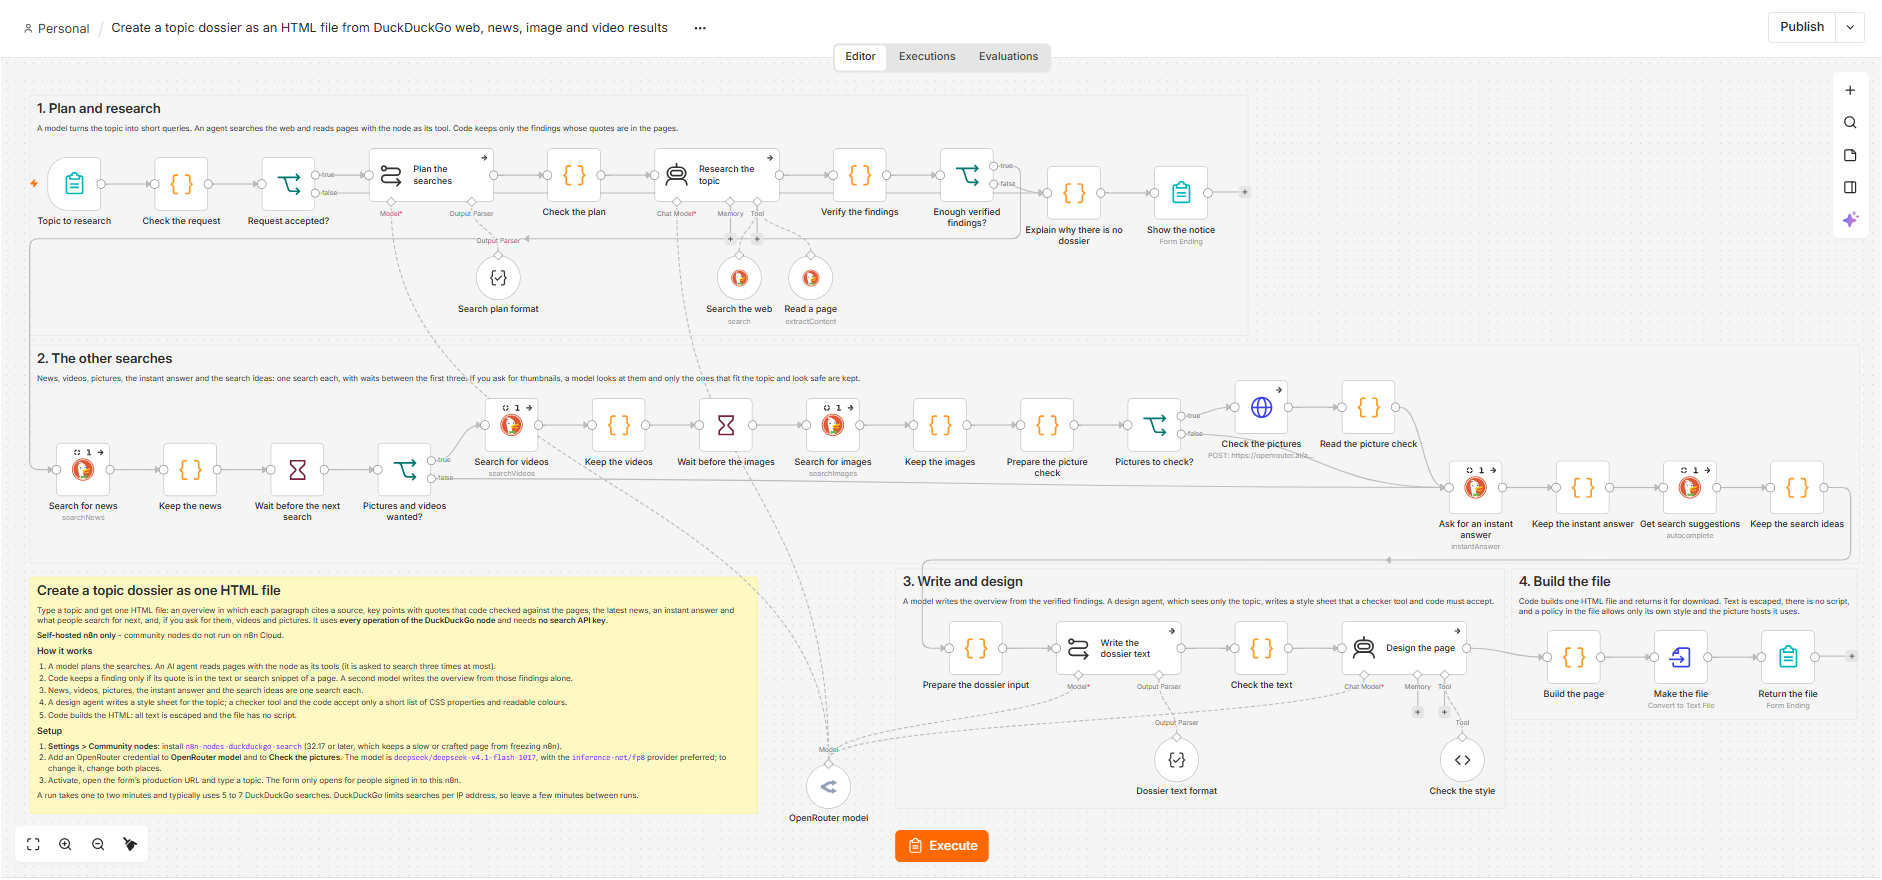
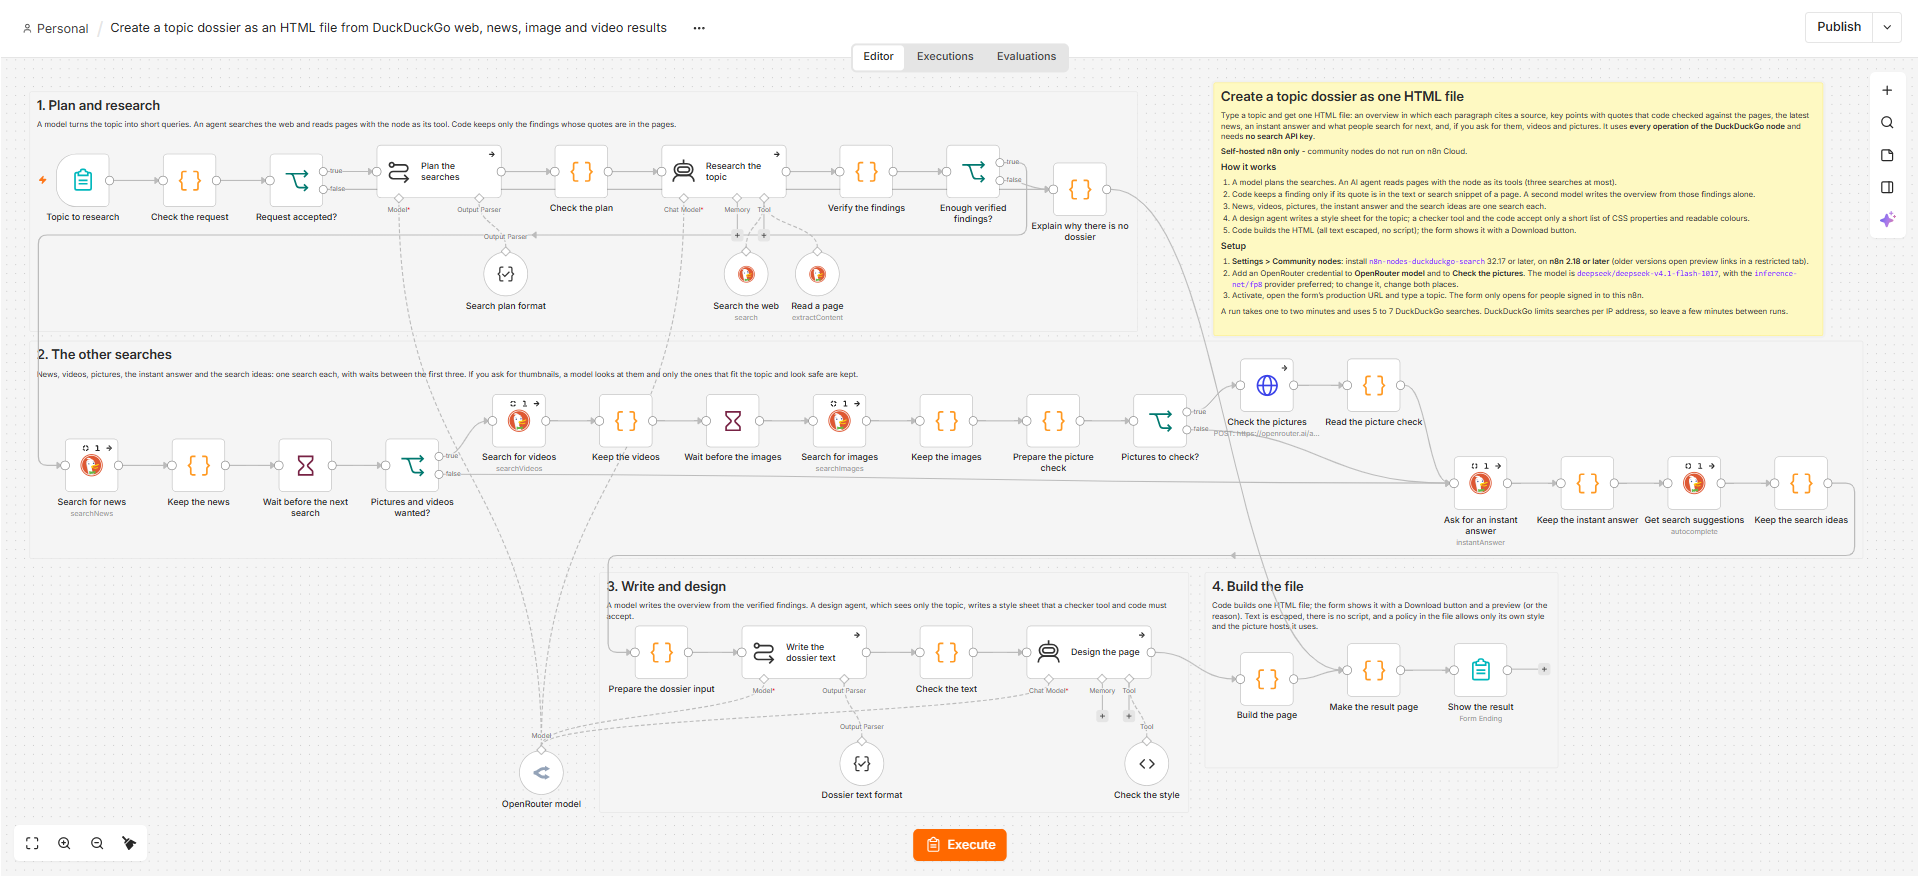
feat(examples): example 9 ends in one output page for the dossier and for the reason (#121)
* feat(examples): example 9 ends in one output page for the dossier and for the reason

The workflow had three Form nodes: the input, an ending for the dossier and
another for the reason when there is none. Both outcomes now go through one Code
node ("Make the result page") into one Form Ending ("Show the result"), so a
person sees two pages, the input and the result, whatever happens. The reason is
marked `notice` by the node that writes it, and the page node routes on that
mark and not on a missing file name.

* docs(examples): example 9 gets the layout and the screenshot of its new ending

Only positions and sizes of the sticky notes change in the JSON; the screenshot
shows the nodes of the single output page.

---------

diff --git a/nodes/DuckDuckGo/__tests__/exampleDossier.test.ts b/nodes/DuckDuckGo/__tests__/exampleDossier.test.ts
@@ -3,7 +3,7 @@
  * Its logic is in Code nodes whose source lives in the JSON file, and it turns text from web pages and from models into a file that a
  * person opens in a browser, so what the nodes do is pinned here by running their own code on small cases: the request check, the plan
  * check, the verification of quotes, the five "keep" nodes, the picture check, the assembly of the input, the text check, the style
- * checker, the builder of the page and the page that shows it with a download link and a preview.
+ * checker, the builder of the page and the page that ends the form: the dossier with a download link and a preview, or the reason.
  */
 
 import { readFileSync } from 'fs';
@@ -162,16 +162,19 @@ describe('example 9: the workflow file', () => {
     expect([...operations].sort()).toEqual(['autocomplete', 'extractContent', 'instantAnswer', 'search', 'searchImages', 'searchNews', 'searchVideos']);
   });
 
-  it('shows the dossier on the form page and does not rely on an automatic download', () => {
-    const done = nodeOf('Show the dossier').parameters;
+  it('ends in one form page that shows the dossier or the reason, and does not rely on an automatic download', () => {
+    const forms = example.nodes.filter((n) => n.type === 'n8n-nodes-base.form' || n.type === 'n8n-nodes-base.formTrigger');
+    expect(forms.map((n) => n.name).sort()).toEqual(['Show the result', 'Topic to research']);
+    const done = nodeOf('Show the result').parameters;
     expect(done.operation).toBe('completion');
     expect(done.respondWith).toBe('showText');
     // a finished run has no $json when the page is loaded again (a reload, the back button), so the ending names the node it reads
-    expect(done.responseText).toBe("={{ $('Make the download page').first().json.page }}");
-    expect(nodeOf('Show the notice').parameters.responseText).toContain("{{ $('Explain why there is no dossier').first().json.html }}");
-    for (const name of ['Show the dossier', 'Show the notice']) expect(nodeOf(name).parameters.responseText).not.toContain('$json');
-    expect(example.connections['Build the page'].main[0][0].node).toBe('Make the download page');
-    expect(example.connections['Make the download page'].main[0][0].node).toBe('Show the dossier');
+    expect(done.responseText).toBe("={{ $('Make the result page').first().json.page }}");
+    expect(done.responseText).not.toContain('$json');
+    // both outcomes go through the same page node: the dossier, and the reason that the failure branches give
+    expect(example.connections['Build the page'].main[0][0].node).toBe('Make the result page');
+    expect(example.connections['Explain why there is no dossier'].main[0][0].node).toBe('Make the result page');
+    expect(example.connections['Make the result page'].main[0][0].node).toBe('Show the result');
     // the form's own file ending downloads on load with no click, which a browser may block while the page still says "downloaded"
     expect(example.nodes.some((n) => n.parameters && n.parameters.respondWith === 'returnBinary')).toBe(false);
     expect(example.nodes.some((n) => n.type === 'n8n-nodes-base.convertToFile')).toBe(false);
@@ -1039,7 +1042,7 @@ describe('example 9: the page', () => {
   });
 });
 
-describe('example 9: the notice', () => {
+describe('example 9: the reason', () => {
   it('escapes the reason and says what happened', () => {
     const n = run('Explain why there is no dossier', [{ error: 'Type a topic <script>alert(1)</script>' }])[0];
     expect(n.html).toContain('No dossier this time');
@@ -1096,8 +1099,8 @@ describe('example 9: hostile text does not stall n8n', () => {
   });
 });
 
-describe('example 9: the download page', () => {
-  const page = (item: Json) => run('Make the download page', [item])[0].page as string;
+describe('example 9: the result page', () => {
+  const page = (item: Json) => run('Make the result page', [item])[0].page as string;
   const linkBytes = (html: string) => {
     const m = /href="data:text\/html;charset=utf-8;base64,([A-Za-z0-9+/=]*)"/.exec(html);
     return m ? Buffer.from(m[1], 'base64').toString('utf8') : null;
@@ -1165,6 +1168,26 @@ describe('example 9: the download page', () => {
     expect(html).toContain('Missing this time: News, &lt;b&gt;Videos&lt;/b&gt;.');
     expect(page({ html: dossier, filename: 'dossier-a.html', missing: [] })).not.toContain('Missing this time');
     expect(page({ html: dossier, filename: 'dossier-a.html' })).not.toContain('Missing this time');
+  });
+
+  it('shows the reason when there is no dossier, as the previous node wrote it', () => {
+    const reason = run('Explain why there is no dossier', [{ error: 'Type a <b>topic</b>' }])[0];
+    const html = page(reason);
+    expect(html).toContain('No dossier this time');
+    expect(html).toContain('Type a &lt;b&gt;topic&lt;/b&gt;');
+    expect(html).not.toContain('<iframe');
+    expect(html).not.toContain('data:text/html');
+    expect(html).not.toContain('Your dossier is ready');
+    expect(html).not.toContain('<script');
+  });
+
+  it('tells the reason from a dossier by what the previous node marked, not by a guess', () => {
+    expect(run('Explain why there is no dossier', [{ why: 'x' }])[0].notice).toBe(true);
+    expect(page({ html: '<p>A reason</p>', notice: true })).not.toContain('<iframe');
+    // a dossier that lost its file name is still a dossier, with the default name
+    const nameless = page({ html: dossier, missing: [] });
+    expect(nameless).toContain('<iframe');
+    expect(nameless).toContain('download="dossier.html"');
   });
 
   it('refuses to show an empty page', () => {

diff --git a/README.md b/README.md
@@ -979,7 +979,7 @@ Copy the JSON and paste it straight onto an n8n canvas (**Ctrl/Cmd+V**), or use 
 | [Find outdated statistics in an article](https://github.com/samnodehi/n8n-nodes-duckduckgo/blob/main/docs/examples/06-outdated-statistics.json) | **Extract Page Content** reads a published article → the model lists dated figures, code keeps only sentences that state the value and its year → one **Web Search** per figure → code keeps a later-dated figure only if its quote is on the page with the value and a later year (a quote with a copyright sign, or a year right after "copyright", is refused) → a review table with both sentences side by side, with a note when the later sentence does not name the same measure. Needs a credential for the AI model (OpenRouter by default); the search side needs none. **Published in n8n's template library:** [n8n.io/workflows/20511](https://n8n.io/workflows/20511) |
 | [Find alternatives to a software product](https://github.com/samnodehi/n8n-nodes-duckduckgo/blob/main/docs/examples/07-software-alternatives.json) | A form takes a product name → one **Web Search** with **Fetch Page Content** reads the top result pages → code keeps pages that list alternatives, leaves out the product's own site and uses one page per site → the model lists the tools each page offers, with a sentence from it → code keeps a name only if that sentence is copied from the page, then counts the separate sites per tool, without a site's vote for its own tool → a table with the sources and the quotes. Needs a credential for the AI model (OpenRouter by default); the search side needs none. **Published in n8n's template library:** [n8n.io/workflows/20738](https://n8n.io/workflows/20738) |
 | [Find broken links on a web page](https://github.com/samnodehi/n8n-nodes-duckduckgo/blob/main/docs/examples/08-broken-links.json) | A form takes a page address → code collects the links to other pages in its source → each link is asked without following redirects (a redirect that only changes the scheme, `www.` or a closing slash is asked once more) → for broken links and for redirects that lose the page, the Wayback Machine gives the old title → a redirect is compared with it, and one **Web Search** per gone page, for its exact title, looks for a page that still has it → a table with what is wrong, a link to the saved copy when the Wayback Machine has one, and a replacement: verified when its own title contains the old one, marked Possible when a page on the same site has nearly the same words. Only the first 12 problems get this closer look, and a replacement is found for only some of the broken links. No credential of any kind; keep its form behind n8n login, because it downloads the pages a page links to |
-| [Create a topic dossier as one HTML file](https://github.com/samnodehi/n8n-nodes-duckduckgo/blob/main/docs/examples/09-topic-dossier.json) | A form takes a topic → a model plans the searches → an **AI Agent** that has this node **as two tools** (**Web Search** with page text, **Extract Page Content**) reads pages, and code keeps a finding only if its quote is in the text of a page the tools returned (or in its search snippet) → one **News**, **Instant Answer** and **Search Suggestions** search, and **Video** and **Image** searches when pictures and videos are asked for (as links, or with thumbnails that a vision model must approve), with **Wait** nodes between searches → a second model writes the overview from the verified findings, and a paragraph that cites no existing source is dropped → a design agent writes a style sheet that a checker tool and the code accept only as plain CSS with readable colours → code builds one HTML file, all text escaped, with no script and a content policy right after the character-set tag (thumbnails load from other servers when the preview or the file is opened) → the form page shows it in a sandboxed preview with a **Download** button: a click always starts a download, while the form's own file ending downloads on page load, which a browser may not allow (tested in Chrome and Firefox; Safari was not; the links in the preview need n8n 2.18 or later, the downloaded file does not). The quotes are checked against the pages; the claims are not fact-checked. Needs a credential for the AI model (OpenRouter by default); the search side needs none. A run takes one to two minutes and typically 5 to 7 searches, so leave a few minutes between runs; keep its form behind n8n login |
+| [Create a topic dossier as one HTML file](https://github.com/samnodehi/n8n-nodes-duckduckgo/blob/main/docs/examples/09-topic-dossier.json) | A form takes a topic → a model plans the searches → an **AI Agent** that has this node **as two tools** (**Web Search** with page text, **Extract Page Content**) reads pages, and code keeps a finding only if its quote is in the text of a page the tools returned (or in its search snippet) → one **News**, **Instant Answer** and **Search Suggestions** search, and **Video** and **Image** searches when pictures and videos are asked for (as links, or with thumbnails that a vision model must approve), with **Wait** nodes between searches → a second model writes the overview from the verified findings, and a paragraph that cites no existing source is dropped → a design agent writes a style sheet that a checker tool and the code accept only as plain CSS with readable colours → code builds one HTML file, all text escaped, with no script and a content policy right after the character-set tag (thumbnails load from other servers when the preview or the file is opened) → the form page shows it in a sandboxed preview with a **Download** button (or, when there is no dossier, the reason, on the same page): a click always starts a download, while the form's own file ending downloads on page load, which a browser may not allow (tested in Chrome and Firefox; Safari was not; the links in the preview need n8n 2.18 or later, the downloaded file does not). The quotes are checked against the pages; the claims are not fact-checked. Needs a credential for the AI model (OpenRouter by default); the search side needs none. A run takes one to two minutes and typically 5 to 7 searches, so leave a few minutes between runs; keep its form behind n8n login |
 
 Each one sets **On Error → Continue** on its main search node. A failed search does not stop the run: Web, News, Image and Video searches — a rate limit included — come back as an item with `success: false` and an `error` field instead of an empty list, whatever **Error Handling** is set to. Search Suggestions, Extract Page Content and input errors such as an empty query follow **Error Handling**, which is **Continue on Error** by default. Branch on `error`, as the news monitor and the research report do; **On Error → Continue** covers the remaining case, Error Handling set to Break on Error.
 

diff --git a/CHANGELOG.md b/CHANGELOG.md
@@ -14,7 +14,7 @@ and this project adheres to [Semantic Versioning](https://semver.org/spec/v2.0.0
 ### Added
 
 - **An eighth example workflow: find broken links on a web page.** `docs/examples/08-broken-links.json` takes a page address from a form (kept behind n8n login), collects the links to other pages in its source and asks each one without following redirects, so a redirect that loses the page is seen; a redirect that only changes the scheme, `www.` or a closing slash is asked once more, because the link's real answer is behind it. For broken links and for redirects that lose the page it takes the old title from the Wayback Machine's newest saved copy, compares a redirect with it, and uses one Web Search per gone page for the exact title to look for a page that still has it. The result is a table with what is wrong, a link to the saved copy when the Wayback Machine has one, and a replacement: verified when its own title contains the old title, marked Possible when a page on the same site has nearly the same words. Only the first 12 problems get this closer look, and a replacement is found for only some of the broken links. The page itself is read without following redirects blindly: one redirect is followed, to a public address only. Links made by JavaScript are not seen, and links to social networks are left out. It needs no credential at all, and runs only on self-hosted n8n, like every workflow that uses this node. Keep its form behind n8n login: it downloads the pages a page links to, and it cannot tell a public name from one that points to a private address.
-- **A ninth example workflow: a topic dossier as one HTML file.** `docs/examples/09-topic-dossier.json` takes a topic from a form and shows one HTML file on the form page, in a sandboxed preview with a Download button (a click always starts a download; the form's own file ending downloads on page load with no click, which a browser may not allow while the page still says "downloaded"; tested in Chrome and Firefox, Safari was not; the links in the preview need n8n 2.18 or later, where the form page's sandbox lets a link open in a normal tab, and the downloaded file does not), and uses every operation of the node (the Video and Image searches when pictures and videos are asked for). An AI agent with Web Search and Extract Page Content as tools reads pages, and code keeps a finding only if its quote is in the text, or the search snippet, of a page the tools returned. The comparison is on whole words, without case, zero-width joiners and combining marks; a sign, a currency, a decimal point or a missing word is not forgiven, and a quote is refused when a word like "not" or "only" stands right next to it on the page (the word list covers English, Spanish, French, German, Italian, Portuguese, Russian and Turkish; for other languages that guard does not apply, and digits are compared as they are written). Only the top-level fields of what a tool returns are read, and the quotes must come from at least two sites. News, Instant Answer and Search Suggestions are one search each (Video and Image too, when asked for), with waits between searches. A second model writes the overview from the verified findings, and a paragraph that cites no existing source is dropped. A design agent that never sees web text writes a style sheet, which a checker tool and the code accept only as plain CSS from a list of properties with opaque, readable colours, with one of six palettes as the fallback. Code builds the HTML: every text escaped, no script, and a content policy right after the character-set tag that allows only the picture hosts used. Pictures and videos are left out unless asked for: they are then links, or links with thumbnails that a vision model approves one by one (relevant and safe); if that check fails, none is shown. The quotes are checked against the pages; the claims are not fact-checked, and the file says so. It needs an OpenRouter credential (`deepseek/deepseek-v4.1-flash-1017`, with the `inference-net/fp8` provider preferred) and runs only on self-hosted n8n. A run takes one to two minutes and typically 5 to 7 searches. Keep its form behind n8n login: an agent reads the pages that searches find.
+- **A ninth example workflow: a topic dossier as one HTML file.** `docs/examples/09-topic-dossier.json` takes a topic from a form and shows one HTML file on the form page, in a sandboxed preview with a Download button (the same page gives the reason when there is no dossier; a click always starts a download; the form's own file ending downloads on page load with no click, which a browser may not allow while the page still says "downloaded"; tested in Chrome and Firefox, Safari was not; the links in the preview need n8n 2.18 or later, where the form page's sandbox lets a link open in a normal tab, and the downloaded file does not), and uses every operation of the node (the Video and Image searches when pictures and videos are asked for). An AI agent with Web Search and Extract Page Content as tools reads pages, and code keeps a finding only if its quote is in the text, or the search snippet, of a page the tools returned. The comparison is on whole words, without case, zero-width joiners and combining marks; a sign, a currency, a decimal point or a missing word is not forgiven, and a quote is refused when a word like "not" or "only" stands right next to it on the page (the word list covers English, Spanish, French, German, Italian, Portuguese, Russian and Turkish; for other languages that guard does not apply, and digits are compared as they are written). Only the top-level fields of what a tool returns are read, and the quotes must come from at least two sites. News, Instant Answer and Search Suggestions are one search each (Video and Image too, when asked for), with waits between searches. A second model writes the overview from the verified findings, and a paragraph that cites no existing source is dropped. A design agent that never sees web text writes a style sheet, which a checker tool and the code accept only as plain CSS from a list of properties with opaque, readable colours, with one of six palettes as the fallback. Code builds the HTML: every text escaped, no script, and a content policy right after the character-set tag that allows only the picture hosts used. Pictures and videos are left out unless asked for: they are then links, or links with thumbnails that a vision model approves one by one (relevant and safe); if that check fails, none is shown. The quotes are checked against the pages; the claims are not fact-checked, and the file says so. It needs an OpenRouter credential (`deepseek/deepseek-v4.1-flash-1017`, with the `inference-net/fp8` provider preferred) and runs only on self-hosted n8n. A run takes one to two minutes and typically 5 to 7 searches. Keep its form behind n8n login: an agent reads the pages that searches find.
 
 ---
 
